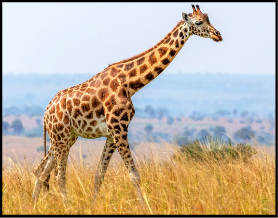
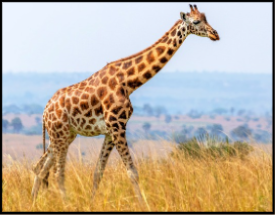
checking css

diff --git a/Frontend/src/Components/styleGame.css b/Frontend/src/Components/styleGame.css
@@ -14,7 +14,7 @@
     margin-top: 2%;
     margin-bottom: 4%;
     border: 3px solid black;
-    max-width: 90%;
+    max-width: 70%;                                /**/
     height: auto;
 }
 
@@ -26,11 +26,11 @@ h1 {
 
 .game p {
     margin: 0%;
-    font-size: 1.5rem;
+    font-size: 3rem;
 }
 .questionImg {
     margin: 1rem 0;
-    max-width: 90%;
+    max-width: 70%;                                     /**/
     height: auto;
     object-fit: cover;
 }
@@ -39,14 +39,14 @@ h1 {
     flex-wrap: wrap;
     justify-content: center;
     /*align-items: center;*/
-    gap: 1.5rem;
+    gap: 7rem;
     /* margin-bottom: 0px; Reduce the bottom margin */
 }
 
 .choice {
-    padding: 0.5rem 1rem;
-    font-size: 1.5rem;
-    border-radius: 2rem;
+    padding: 0.5rem 4rem;
+    font-size: 3rem;
+    border-radius: 3rem;
     border: 0.1rem solid #333;
     background-color: rgb(255, 255, 255);
     min-width: 100px;
@@ -63,7 +63,7 @@ h1 {
     display: flex;
     justify-content: center;
     flex-wrap: wrap;
-    gap: 1rem;
+    gap: 2rem;
 }
 
 .imgchoice {
@@ -73,8 +73,7 @@ h1 {
     background-color: transparent;
     transition: transform 0.2s ease, border-color 0.2s ease;
     display: inline-block;
-    width: 150px;  /* Adjust width */
-    height: auto; /* Adjust height */
+    
 }
 
 .imgchoice img {
@@ -90,15 +89,15 @@ h1 {
 }
 
 .submit {
-    font-size: 1.2rem;
+    font-size: 2.1rem;
     border-radius: 25px;
     border: 3px solid black;
     background-color: white;
     cursor: pointer;
-    padding: 0.5rem 1.5rem;
-    margin-top: 1rem;
-    margin-left: auto; /* Pushes the button to the right */
-    display: block; /* Ensures proper layout alignment */
+    padding: 0.7rem 3rem;
+    margin-top: 0.2rem;
+    margin-right: 3%;
+    float: right;
     transition: background-color 0.2s ease, transform 0.2s ease;
 }
 
